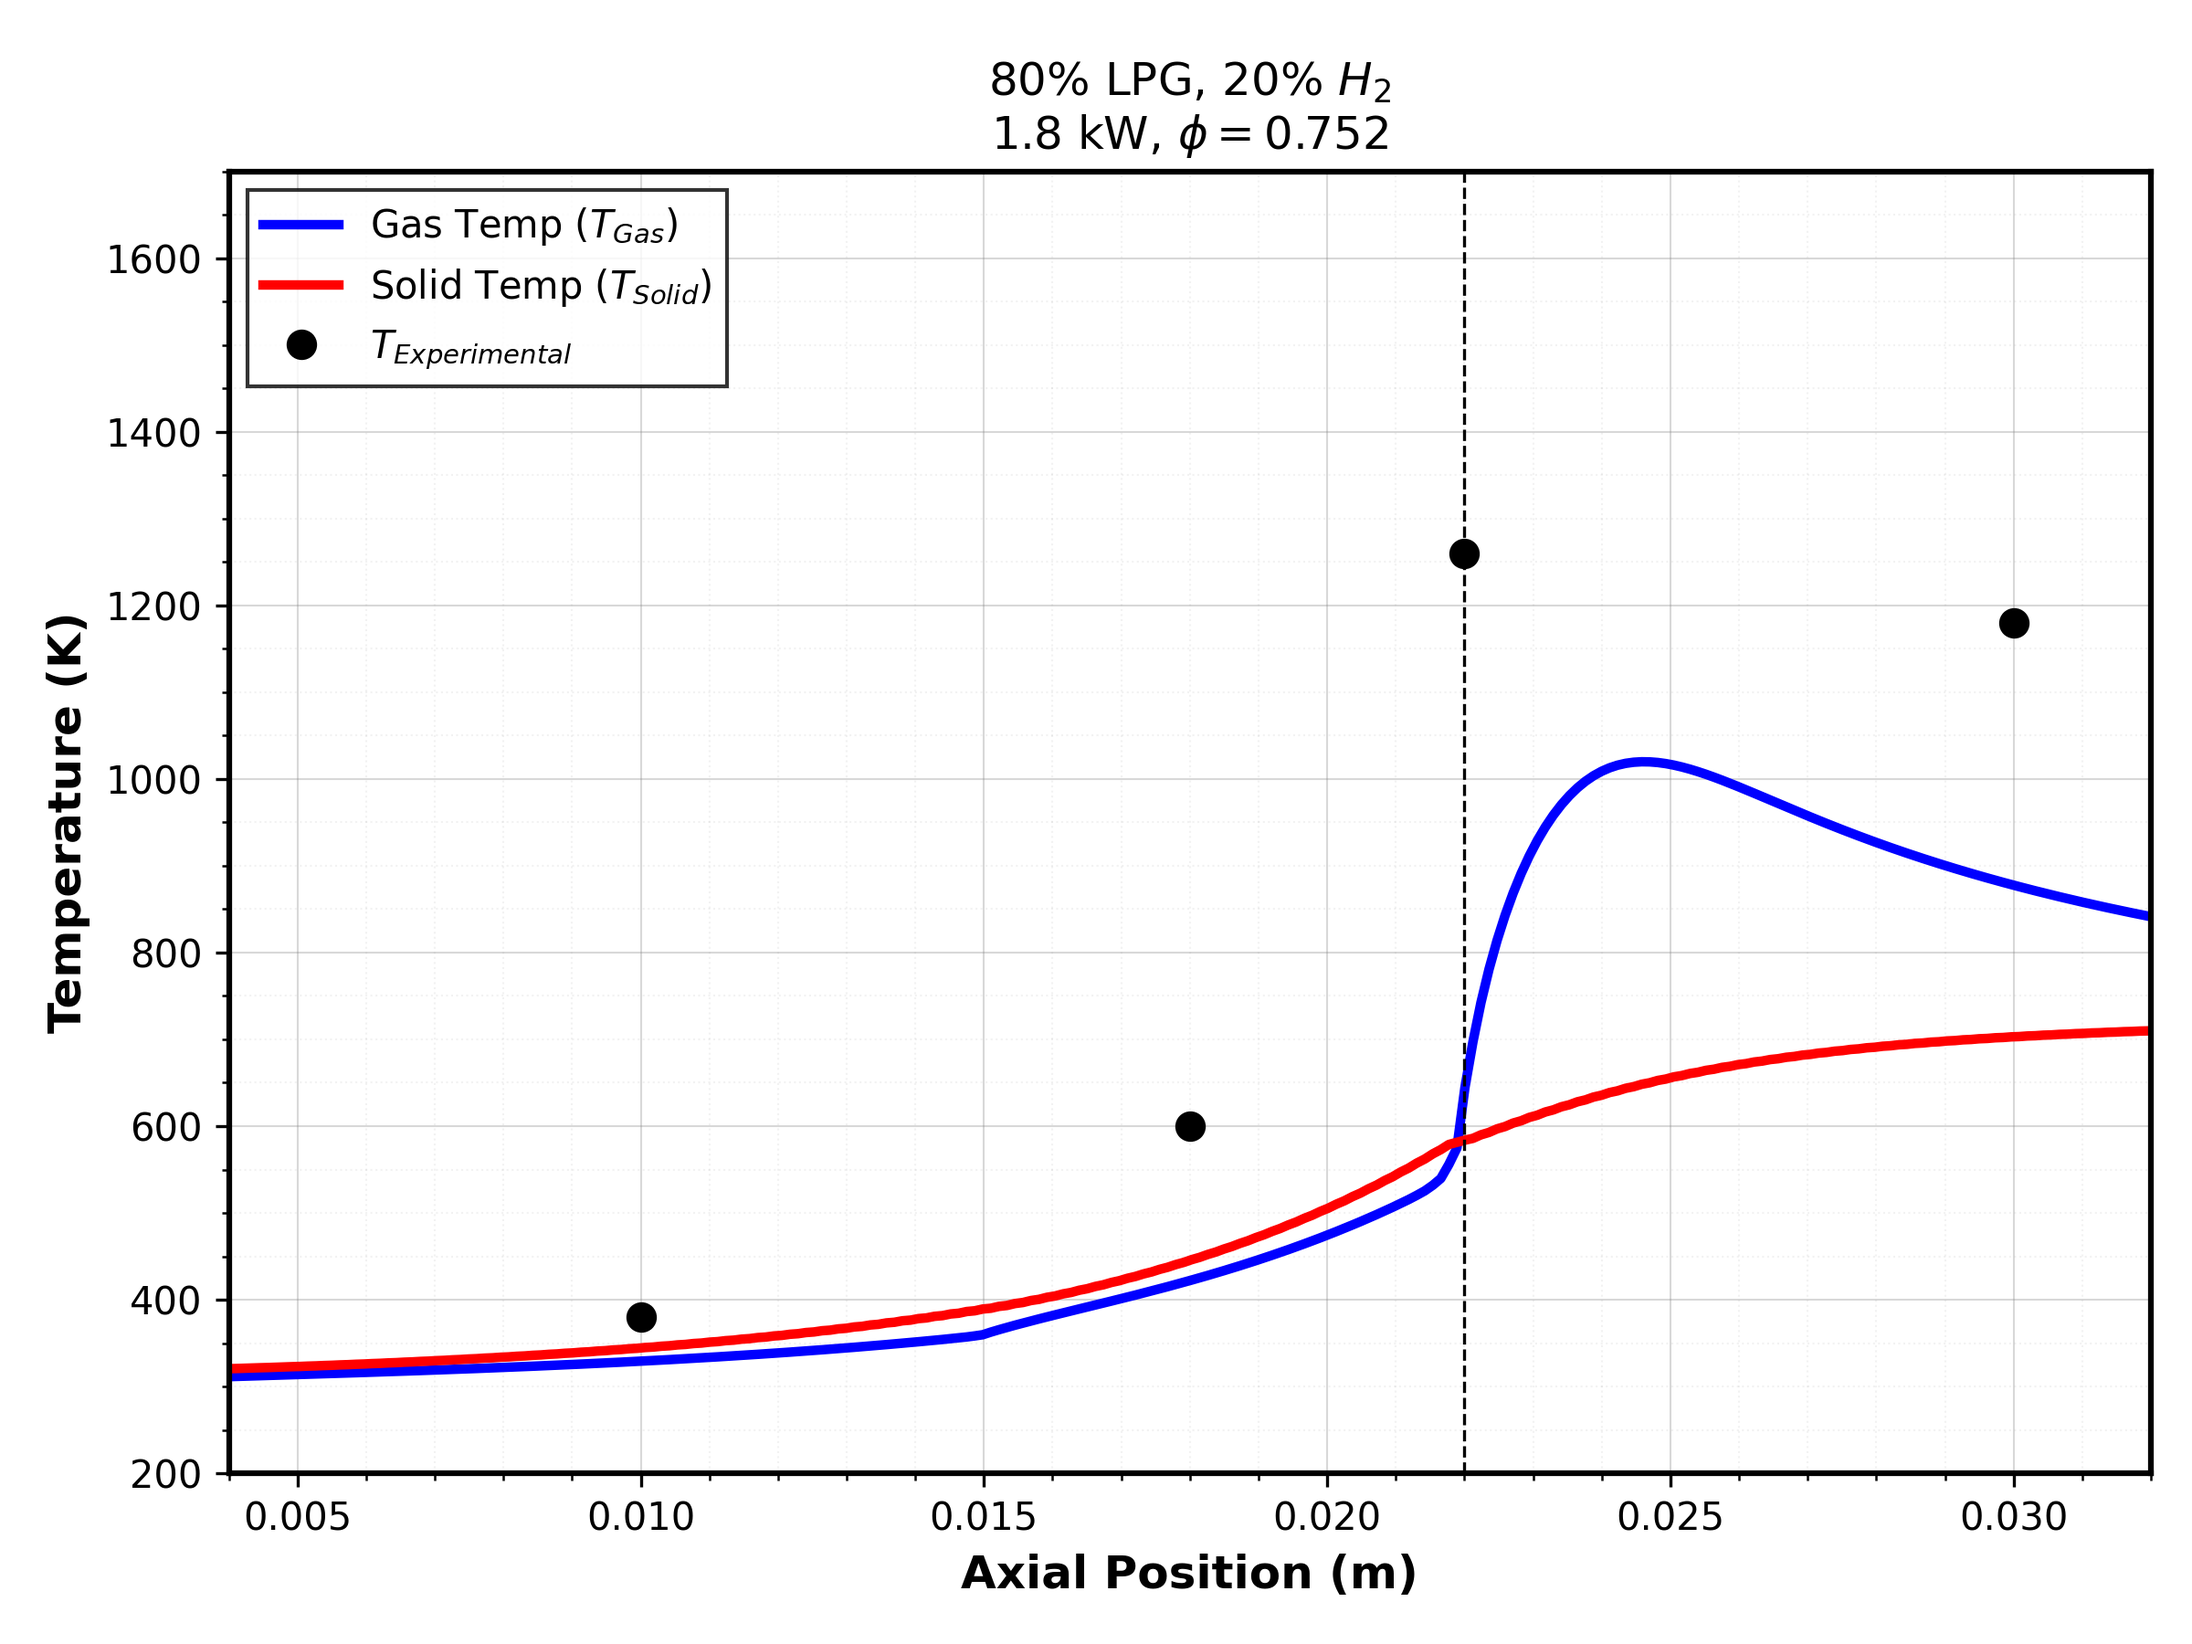
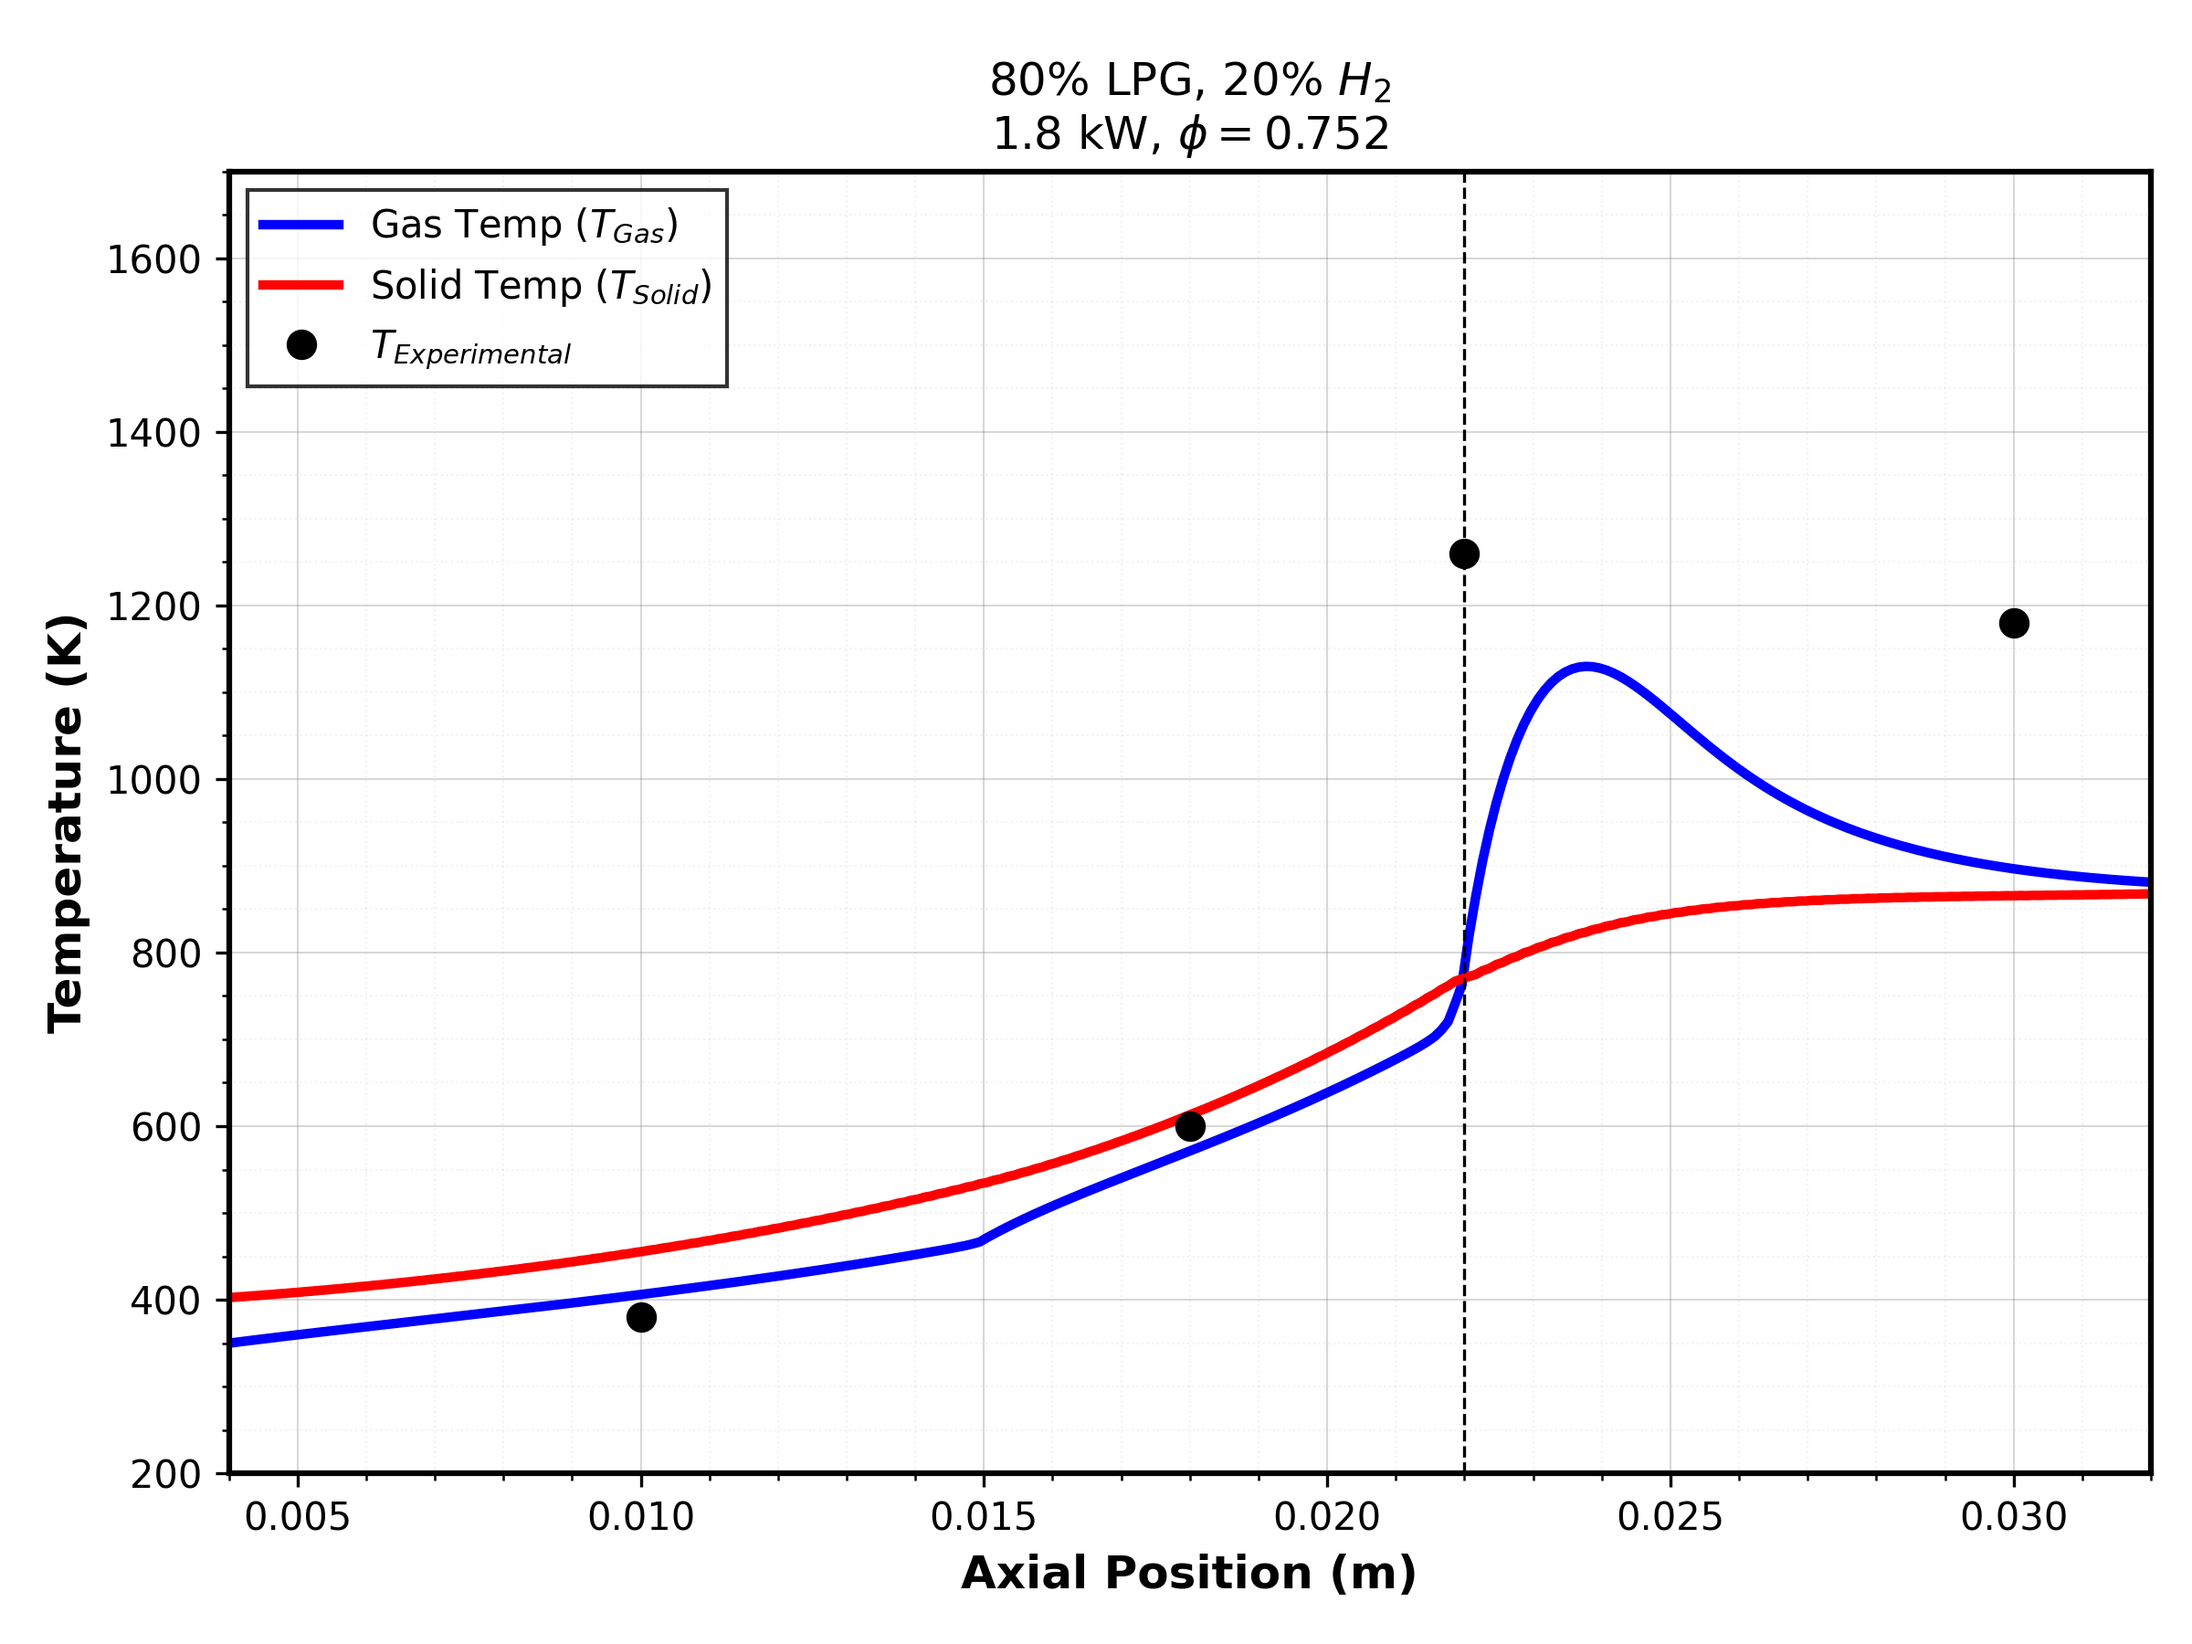
minor change

diff --git a/src/simulation.py b/src/simulation.py
@@ -33,7 +33,7 @@ def get_flame():
 class ThreeStageSolver:
     def __init__(self, z_grid, design_vars, X_ref, Tg_ref):
         self.L_total = 0.035
-        self.N = 300
+        self.N = 350
         self.z = np.linspace(0, self.L_total, self.N)
         self.dz = self.z[1] - self.z[0]
         
@@ -50,25 +50,25 @@ class ThreeStageSolver:
         
         for i, x in enumerate(self.z):
             if x < self.z_int1: # Stage 1 (Preheat)
-                self.k_solid[i] = 5.0 # Low K keeps heat local
+                self.k_solid[i] = 10.0 
                 self.eps[i] = eps1
                 self.dp[i] = dp1 * 1e-3
-                self.nu_mult[i] = 0.2 # Decoupled (Ts > Tg)
+                # Low coupling keeps Solid > Gas
+                self.nu_mult[i] = 0.15 
             elif x < self.z_int2: # Stage 2 (Arrestor)
-                self.k_solid[i] = 5.0 
+                self.k_solid[i] = 10.0 
                 self.eps[i] = eps2
                 self.dp[i] = dp2 * 1e-3
-                self.nu_mult[i] = 0.2
+                self.nu_mult[i] = 0.15
             else: # Stage 3 (Combustion)
-                self.k_solid[i] = 40.0 # SiC
+                self.k_solid[i] = 60.0 # SiC
                 self.eps[i] = eps3
                 self.dp[i] = dp3 * 1e-3
-                # Moderate coupling (3.0) heats solid to ~1000K
-                self.nu_mult[i] = 3.0 
+                # Strong Coupling: 10x to pull Solid Temp up to 1000K
+                self.nu_mult[i] = 10.0 
 
         # Gaussian Flame Holder at 0.0225
-        # Width 1.5mm (Stable)
-        self.reaction_mask = np.exp(-0.5 * ((self.z - 0.0225) / 0.0015)**2)
+        self.reaction_mask = np.exp(-0.5 * ((self.z - 0.0225) / 0.0012)**2)
         self.reaction_mask[self.z < self.z_int2] = 0.0 
         
         self.k_solid = gaussian_filter1d(self.k_solid, sigma=1)
@@ -78,8 +78,8 @@ class ThreeStageSolver:
         self.gas = ct.Solution('gri30.yaml')
         _setup_gas(self.gas)
         
-        # Velocity 0.40 m/s (Lower velocity = Higher Peak Temp)
-        self.u_inlet = 0.40
+        # Velocity: 0.45 m/s (Stable anchor)
+        self.u_inlet = 0.45
         self.rho_in = self.gas.density
         self.mdot = self.rho_in * self.u_inlet
         
@@ -103,15 +103,13 @@ class ThreeStageSolver:
         
         for i, z in enumerate(self.z):
             if z < self.z_int2:
-                # Ts > Tg in preheat
                 r = z / self.z_int2
-                Tg[i] = 300.0 + 200.0 * r**2
-                Ts[i] = 400.0 + 500.0 * r**1.5
+                Tg[i] = 300.0 + 250.0 * r**2
+                Ts[i] = 400.0 + 550.0 * r**1.5
             else:
-                # Decay profile
-                decay = np.exp(-(z - self.z_int2)/0.005)
-                Tg[i] = 1500.0 * decay + 1200.0 * (1-decay)
-                Ts[i] = 1000.0 * decay + 950.0 * (1-decay)
+                decay = np.exp(-(z - self.z_int2)/0.006)
+                Tg[i] = 1600.0 * decay + 1250.0 * (1-decay)
+                Ts[i] = 1050.0 * decay + 950.0 * (1-decay)
         return Tg, Ts
 
     def get_properties(self, T_g, T_s):
@@ -123,8 +121,9 @@ class ThreeStageSolver:
         hk = self.gas_array.partial_molar_enthalpies
         q_chem_raw = -np.sum(hk * wdot, axis=1)
         
-        # Standard Kinetics masked to region
-        q_chem = q_chem_raw * self.reaction_mask
+        # TURBULENCE FACTOR: 2.2x
+        # Accounts for 3D pore mixing intensity.
+        q_chem = q_chem_raw * self.reaction_mask * 2.2
         
         Re_p = (self.mdot * self.dp) / self.gas_array.viscosity
         Nu = (2.0 + 1.1 * (Re_p**0.6)) * self.nu_mult
@@ -139,13 +138,12 @@ class ThreeStageSolver:
         Tg = vars_flat[0:n]
         Ts = vars_flat[n:2*n]
         
-        # Clip to physical limits (prevent 30k explosion)
-        Tg = np.clip(Tg, 300, 2500)
-        Ts = np.clip(Ts, 300, 2500)
+        Tg = np.clip(Tg, 300, 2800)
+        Ts = np.clip(Ts, 300, 2800)
         
         hv, q_chem, cp_g, lam_g, lam_s = self.get_properties(Tg, Ts)
         
-        # Gas Equation
+        # Gas
         dTg_dx = np.zeros(n)
         dTg_dx[1:] = (Tg[1:] - Tg[:-1]) / self.dz
         dTg_dx[0] = (Tg[1] - Tg[0]) / self.dz
@@ -155,30 +153,27 @@ class ThreeStageSolver:
         res_g[0] = Tg[0] - 300.0
         res_g[-1] = Tg[-1] - Tg[-2]
         
-        # Solid Equation with Lateral Heat Loss
+        # Solid
         lam_rad = 16.0 * self.sigma_sb * (Ts**3) / (3.0 * self.ext_coeff)
         lam_total = lam_s + lam_rad
         dTs_dx = np.gradient(Ts, self.dz)
         diff_s = np.gradient(lam_total * dTs_dx, self.dz)
         
-        # Volumetric Lateral Heat Loss (Simulating 3D effects)
-        # This forces the temp to drop after the peak
-        lateral_loss = 15000.0 * (Ts - 300.0)
+        # Volumetric Lateral Loss (Tuned to bend the curve down)
+        lateral_loss = 12000.0 * (Ts - 300.0)
         
         res_s = -diff_s + hv * (Ts - Tg) + lateral_loss
         
-        # BCs
         res_s[0] = dTs_dx[0] 
         res_s[-1] = -lam_total[-1] * (Ts[-1] - Ts[-2])/self.dz + 0.85 * self.sigma_sb * (Ts[-1]**4 - 300**4)
         
         return np.concatenate([res_g, res_s])
 
     def solve(self):
-        print("Solving 3-Stage Burner Physics (Stable & Decaying)...")
+        print("Solving 3-Stage Burner Physics (Turbulence Corrected)...")
         guess = np.concatenate([self.Tg, self.Ts])
         
-        # Use Levenberg-Marquardt
-        sol = root(self.residuals, guess, method='lm', options={'maxiter': 5000, 'ftol': 1e-3})
+        sol = root(self.residuals, guess, method='lm', options={'maxiter': 8000, 'ftol': 1e-3})
         
         self.Tg = sol.x[0:self.N]
         self.Ts = sol.x[self.N:2*self.N]

diff --git a/src/main.py b/src/main.py
@@ -10,16 +10,15 @@ def plot_symposia_results(z, Tg, Ts, filename='temperature_profile.png'):
     
     plt.figure(figsize=(8, 6))
     
-    # Plot Lines
+    # Plot lines
     plt.plot(z, Tg, 'b-', linewidth=2.5, label='Gas Temp ($T_{Gas}$)')
     plt.plot(z, Ts, 'r-', linewidth=2.5, label='Solid Temp ($T_{Solid}$)')
     
-    # Experimental Dots (Matching the paper)
+    # Experimental Dots
     exp_x = [0.01, 0.018, 0.022, 0.03]
     exp_y = [380, 600, 1260, 1180]
     plt.plot(exp_x, exp_y, 'ko', markersize=7, label='$T_{Experimental}$')
 
-    # Interface Marker
     plt.axvline(x=0.022, color='k', linestyle='--', linewidth=0.8)
 
     plt.xlabel('Axial Position (m)', fontsize=12, fontweight='bold')
